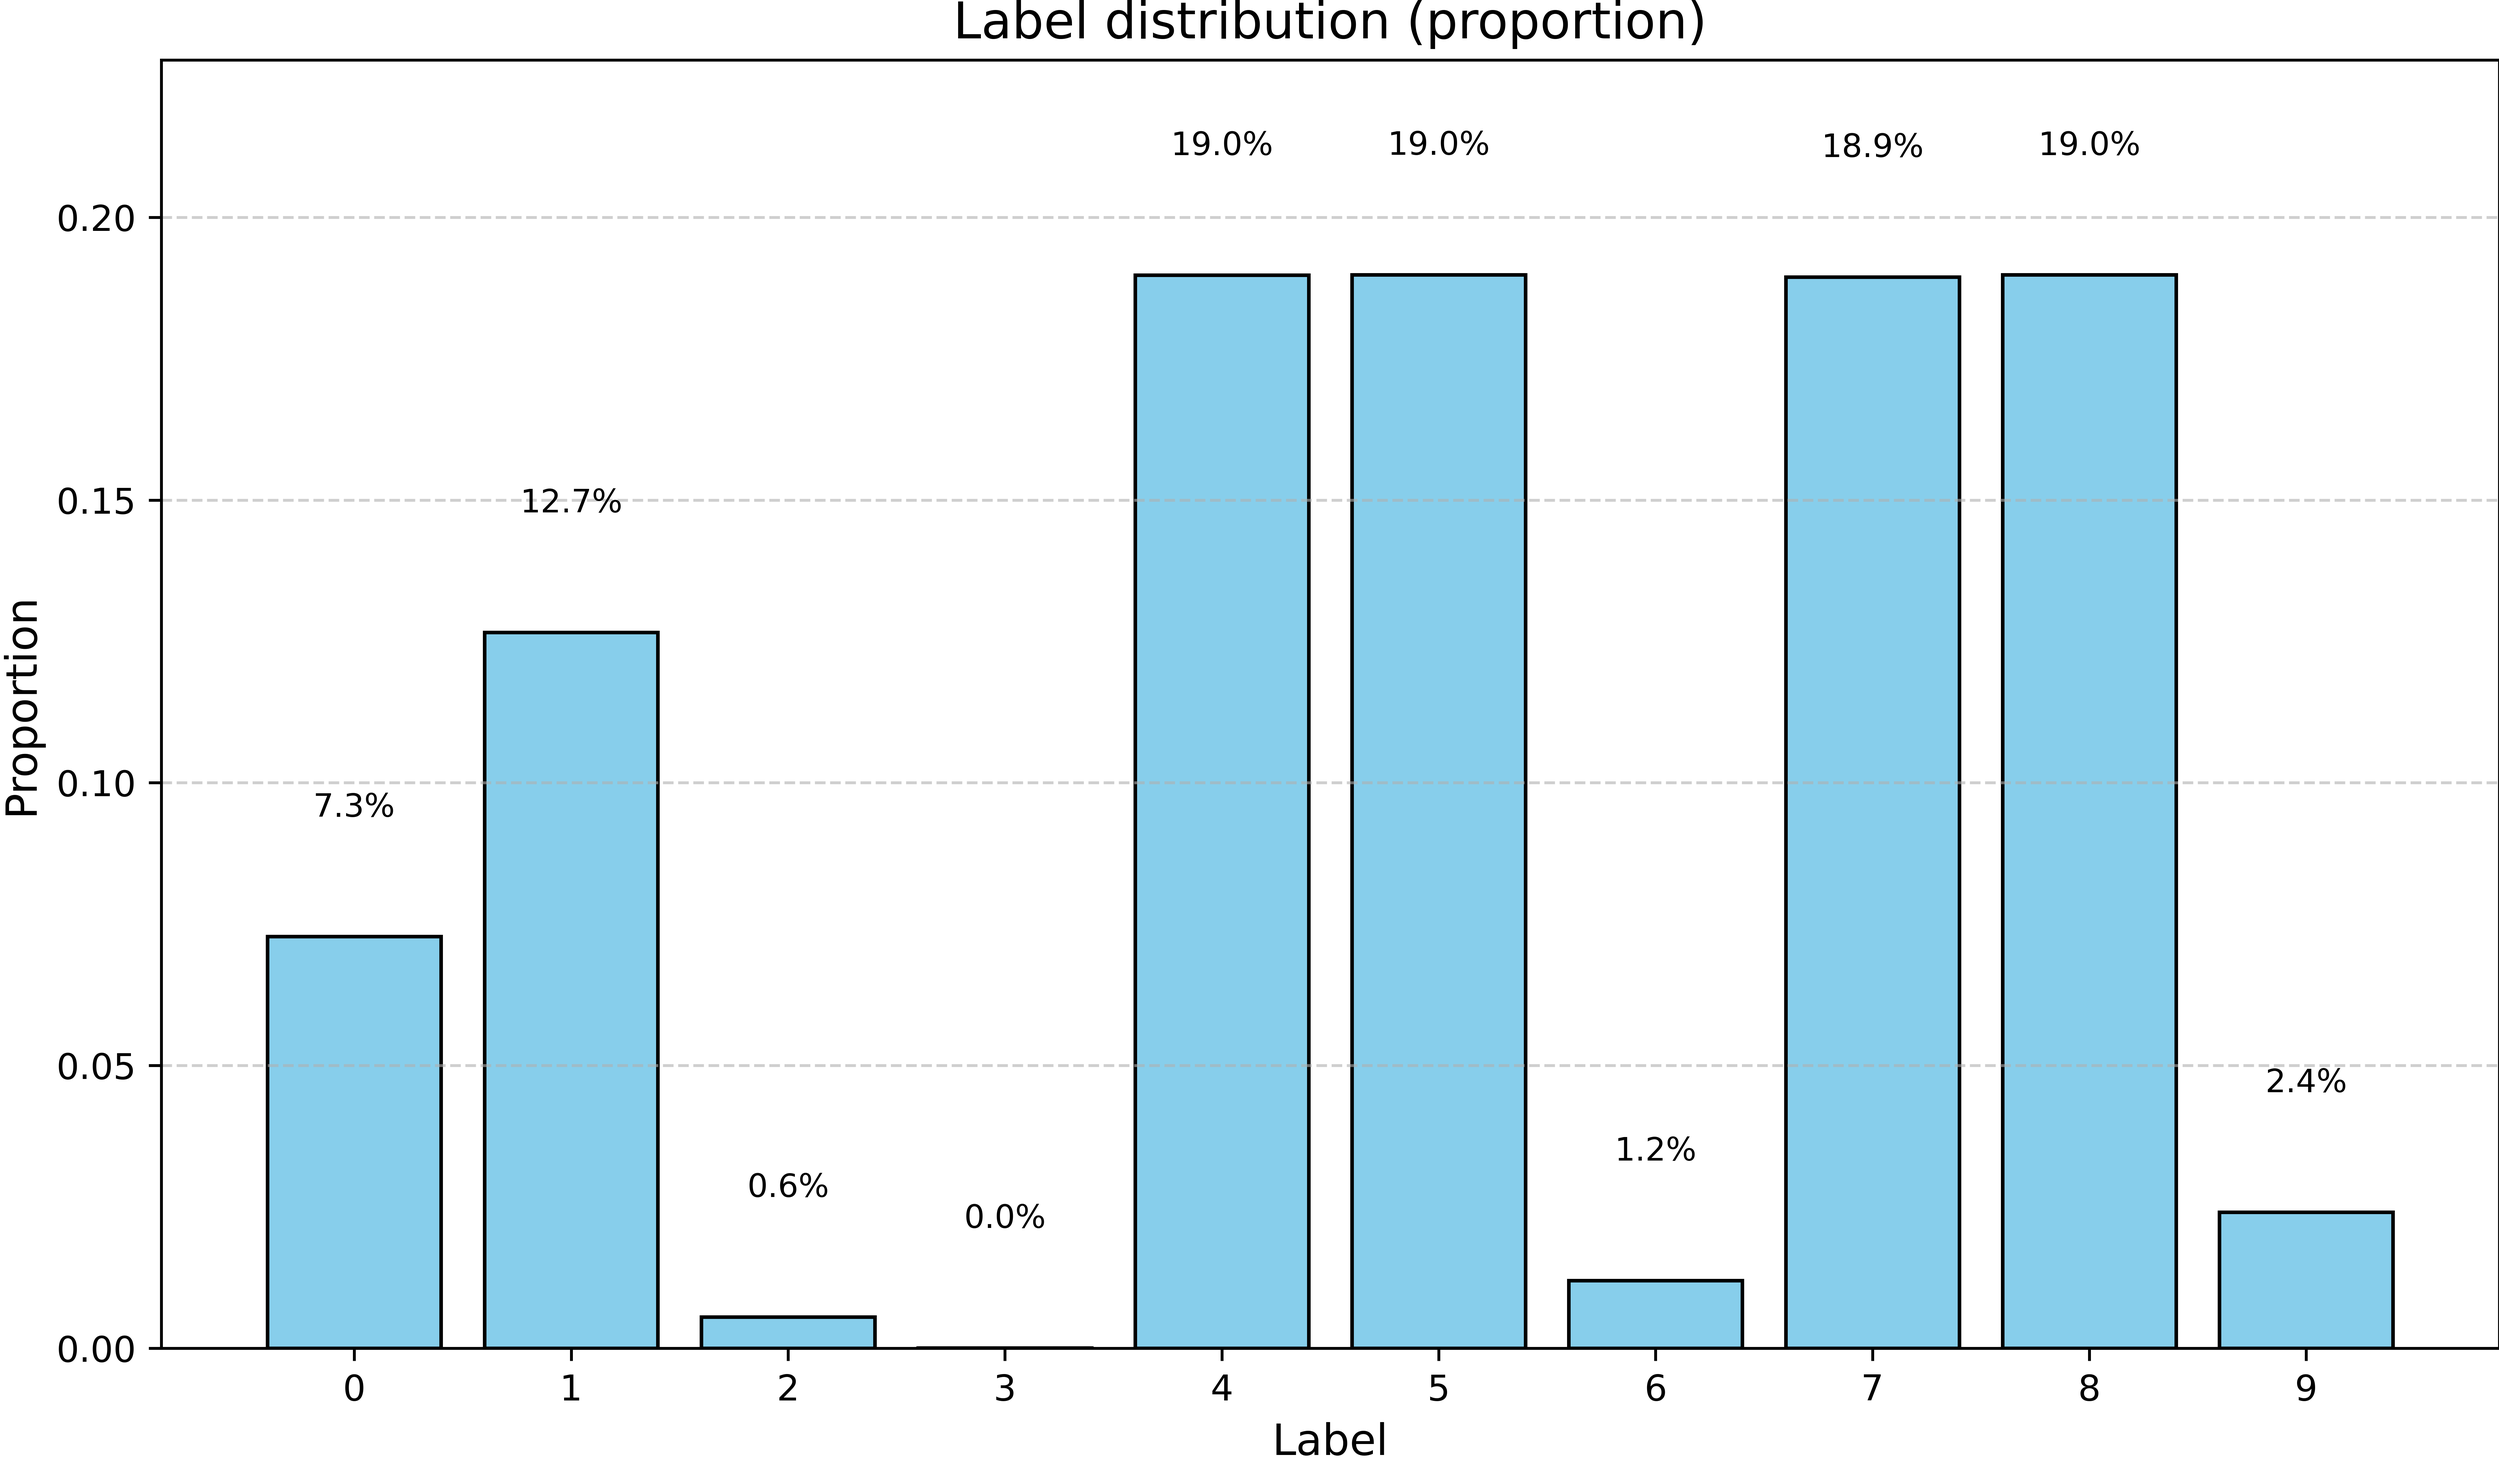
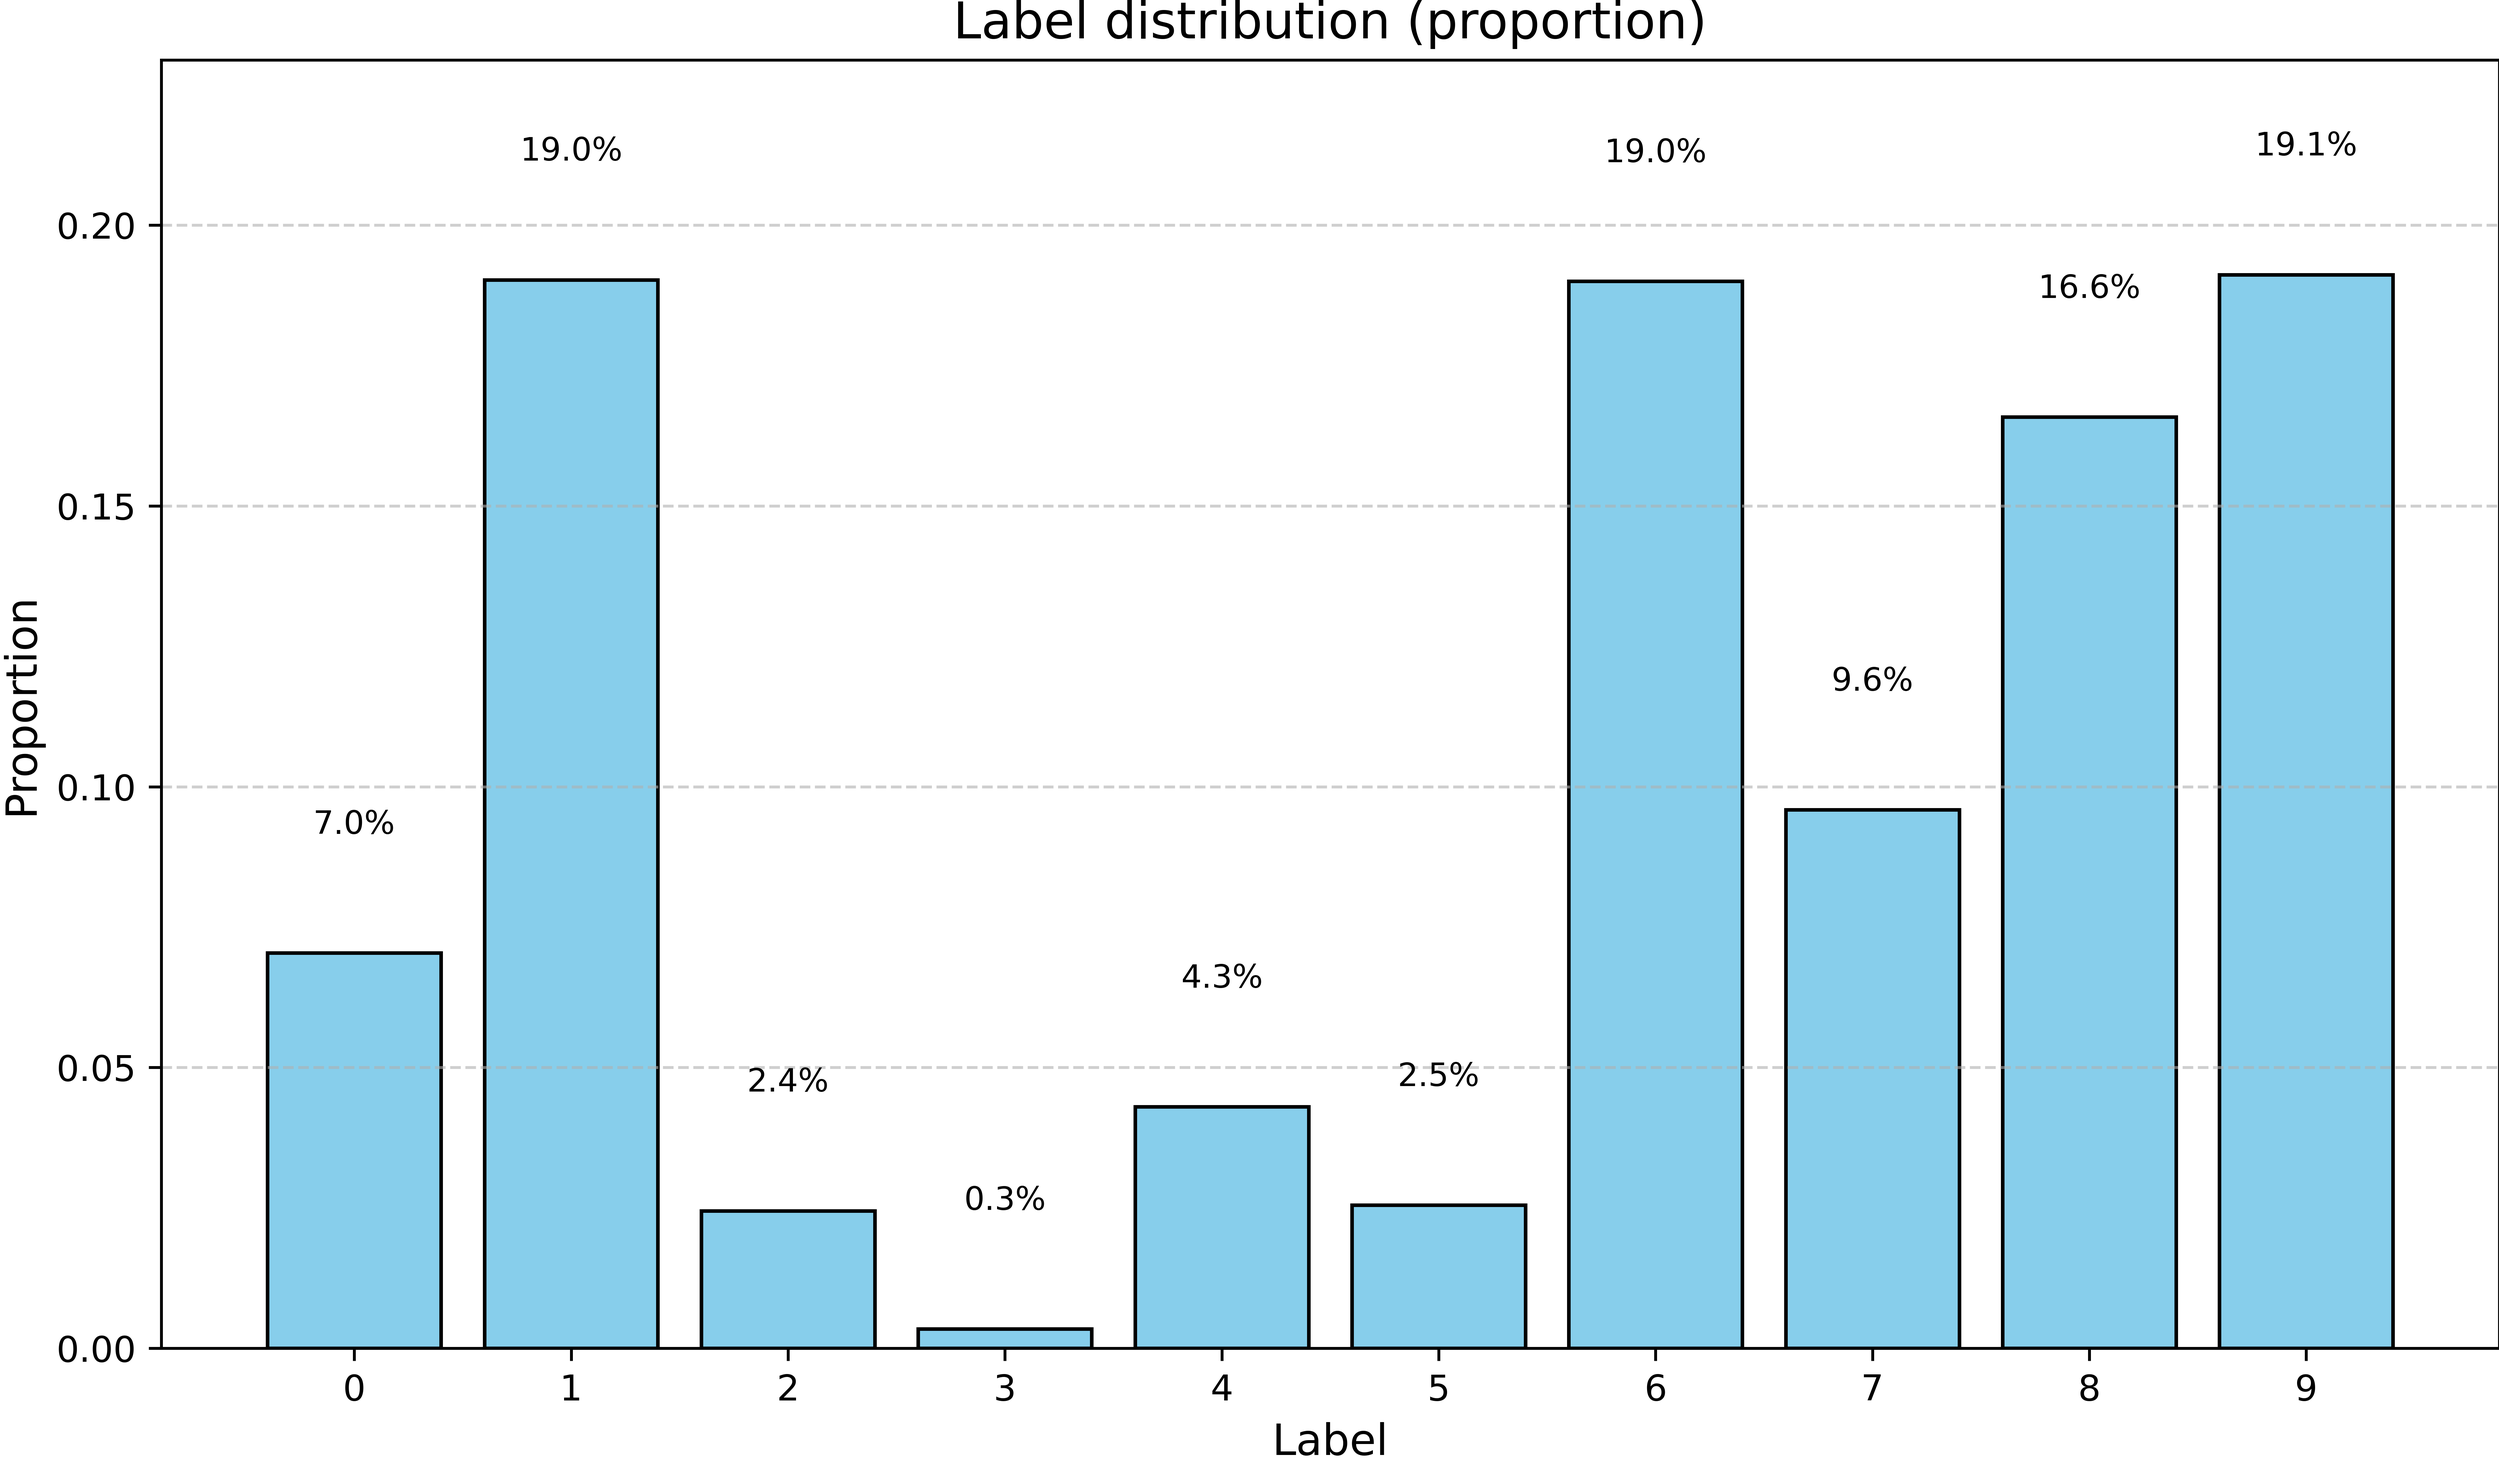
go

diff --git a/codes/ourMethod/defence.py b/codes/ourMethod/defence.py
@@ -325,7 +325,7 @@ def defence_train(
             record_list = poison_linear_record(model, poisoned_eval_dataset_loader, split_criterion, device,dataset_name=kwargs["dataset_name"], model_name =kwargs["model_name"])
             print("Mining clean data by class-agnostic loss-guided split...")
             # 将trainset对半划分为clean pool和poisoned pool
-            split_indice =  class_agnostic_loss_guided_split(record_list, 0.5, poisoned_ids, class_prob_map=None, classes_rank = None) # class_prob_map=class_prob_map
+            split_indice =  class_agnostic_loss_guided_split(record_list, 0.5, poisoned_ids, class_prob_map=None, classes_rank = classes_rank) # class_prob_map=class_prob_map
             xdata = MixMatchDataset(poisoned_train_dataset, split_indice, labeled=True)
             udata = MixMatchDataset(poisoned_train_dataset, split_indice, labeled=False)
         elif epoch < total_epoch: # epoch:[90,120]
@@ -570,6 +570,7 @@ def class_agnostic_loss_guided_split(record_list, ratio, poisoned_indice, class_
         "{}/{} poisoned samples in clean data pool".format(poisoned_count, len(total_indice))
     )
     clean_pool_flag[total_indice] = 1
+    '''
     # 额外分析与可视化
     sampling_analyse(
         loss_array = loss,
@@ -577,6 +578,7 @@ def class_agnostic_loss_guided_split(record_list, ratio, poisoned_indice, class_
         sample_idx_array = total_indice,
         gt_label_array = gt_label_array
         )
+    '''
     return clean_pool_flag
 
 def meta_split(record_list, meta_record_list, ratio, poisoned_indice, class_prob_map=None, classes_rank=None):

diff --git a/codes/ourMethod/OurMethod_defence_train.py b/codes/ourMethod/OurMethod_defence_train.py
@@ -55,13 +55,14 @@ poisoned_ids = backdoor_data["poisoned_ids"]
 poisoned_testset = backdoor_data["poisoned_testset"] # 预制的poisoned_testset
 # 得到一个raw model
 victim_model = get_model(dataset_name=config.dataset_name, model_name=config.model_name)
-
+'''
 # 加载stage1后(epoch=59完成后)的模型权重
 # 权重路径
 dict_path = "/data/mml/backdoor_detect/experiments/OurMethod/CIFAR10/ResNet18/BadNets/2025-03-23_20:13:26/ckpt/epoch59.pt"
 dict_data = torch.load(dict_path,map_location="cpu")
 # 权重load到模型中
 victim_model.load_state_dict(dict_data["model_state_dict"])
+'''
 
 # 根据poisoned_ids得到非预制菜poisoneds_trainset和新鲜clean_testset
 if config.dataset_name == "CIFAR10":

diff --git a/codes/config.py b/codes/config.py
@@ -37,15 +37,15 @@ poisoned_rate = 0.05
 ###########################################################
 
 # 当前实验设置的数据集名字
-dataset_name = "CIFAR10" # CIFAR10, GTSRB, ImageNet2012_subset
+dataset_name = "ImageNet2012_subset" # CIFAR10, GTSRB, ImageNet2012_subset
 # 数据集分类任务数量
-class_num = 10 #  CIFAR-10:10,GTSRB:43,ImageNet2012_subset:30
+class_num = 30 #  CIFAR-10:10,GTSRB:43,ImageNet2012_subset:30
 # 当前实验设置的模型名字
 model_name = "ResNet18"
 # 当前实验设置的攻击
-attack_name = "BadNets"
+attack_name = "WaNet"
 # GPU设备
-gpu_id = 1
+gpu_id = 0
 
 
 # baseline ASD配置
